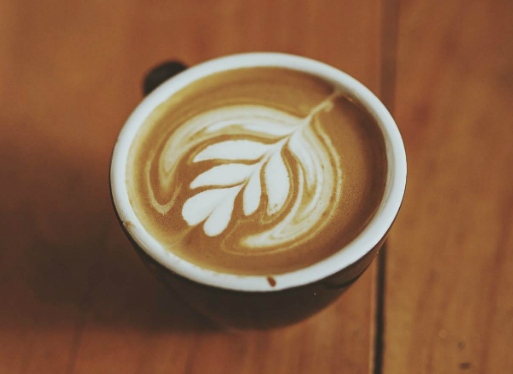
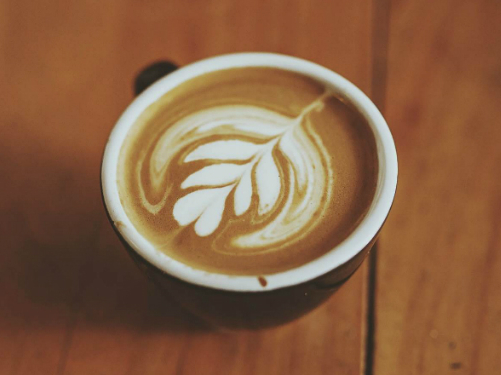
changed color of buttons, added button to allow you to create new account and changed flat white cropped image to fit the belends row

diff --git a/static-src/css/components/_variables.scss b/static-src/css/components/_variables.scss
@@ -37,7 +37,7 @@ $primary-color: color("materialize-red", "lighten-2") !default;
 $primary-color-light: lighten($primary-color, 15%) !default;
 $primary-color-dark: darken($primary-color, 15%) !default;
 
-$secondary-color: color("teal", "lighten-1") !default;
+$secondary-color: $dark-background !default;
 $success-color: color("green", "base") !default;
 $error-color: color("red", "base") !default;
 $link-color: color("light-blue", "darken-1") !default;

diff --git a/app/auth.js b/app/auth.js
@@ -9,7 +9,7 @@ app.get('/login/email',(req,res)=>{
   res.render('login/email',req.resdata);
 })
 app.get('/signup/email',(req,res)=>{
-  res.render('login/email',req.resdata);
+  res.render('signup/email',req.resdata);
 })
 
 
